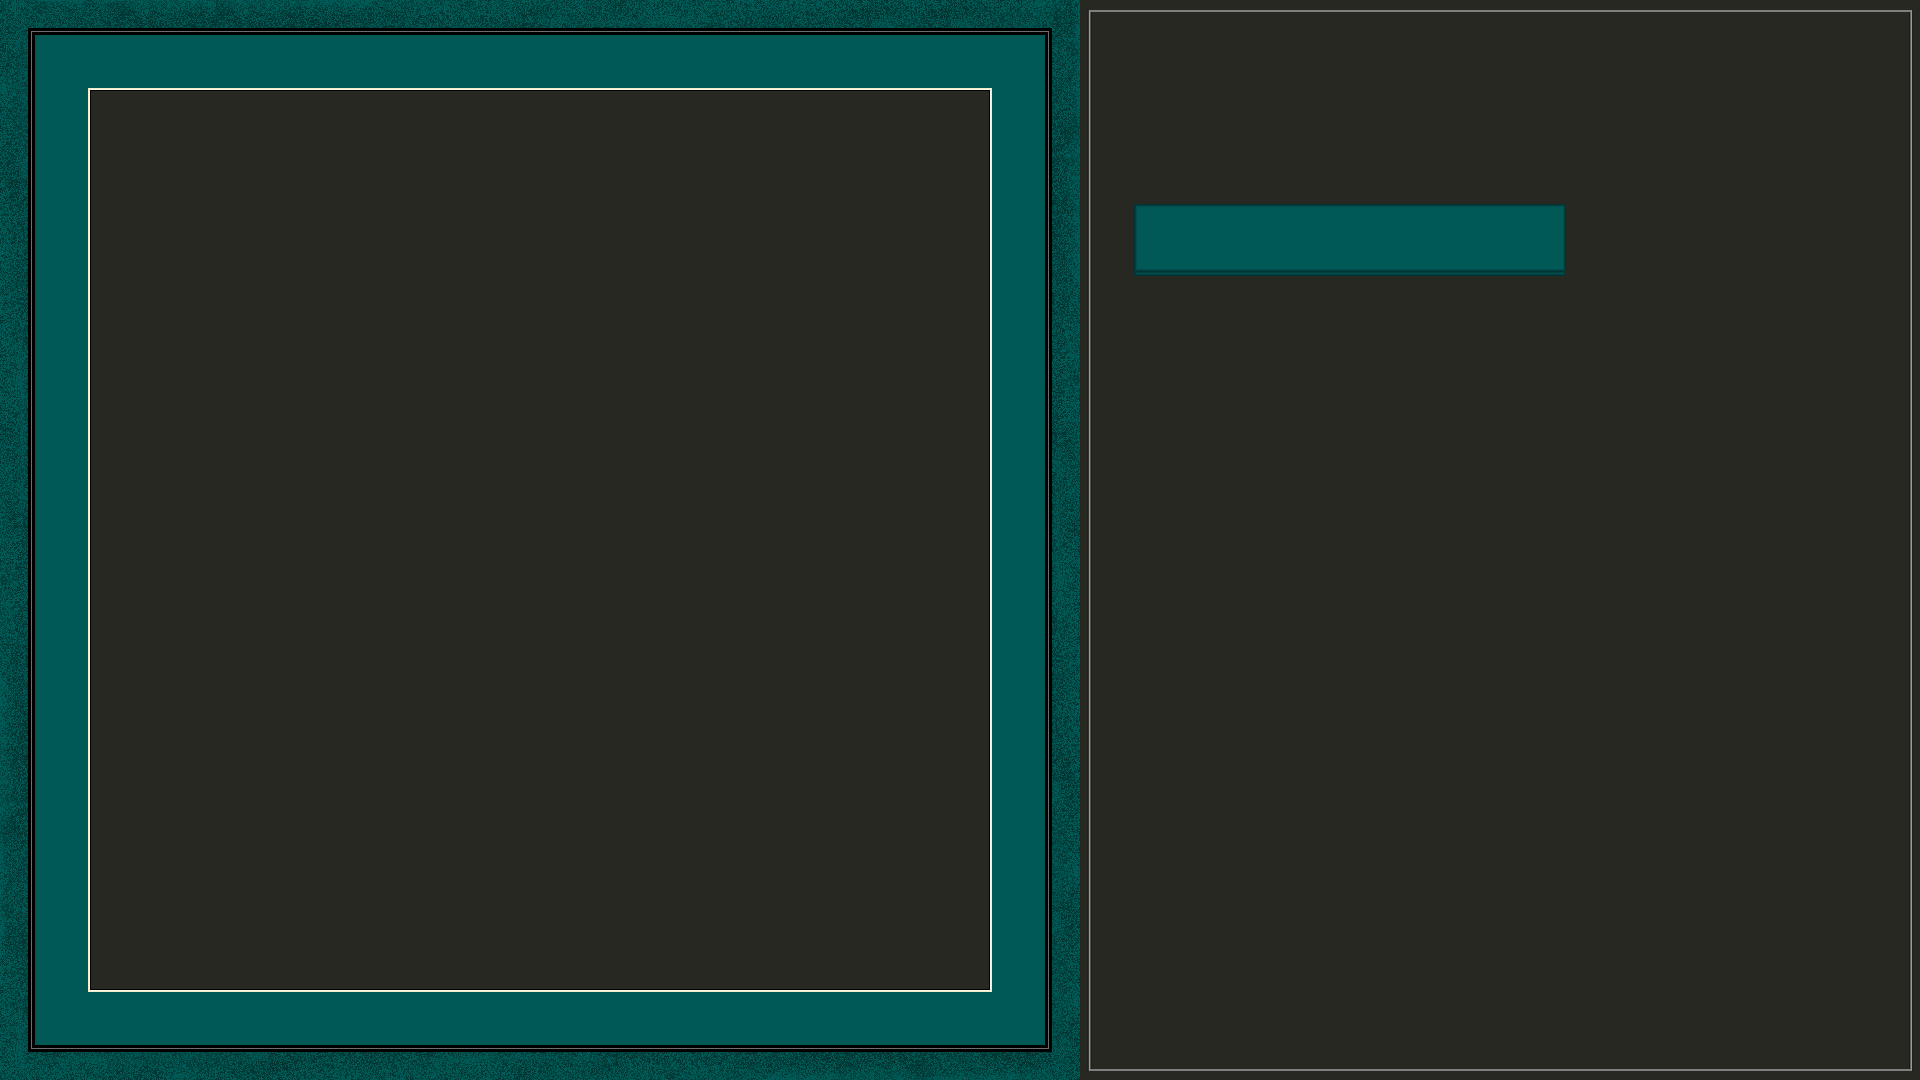
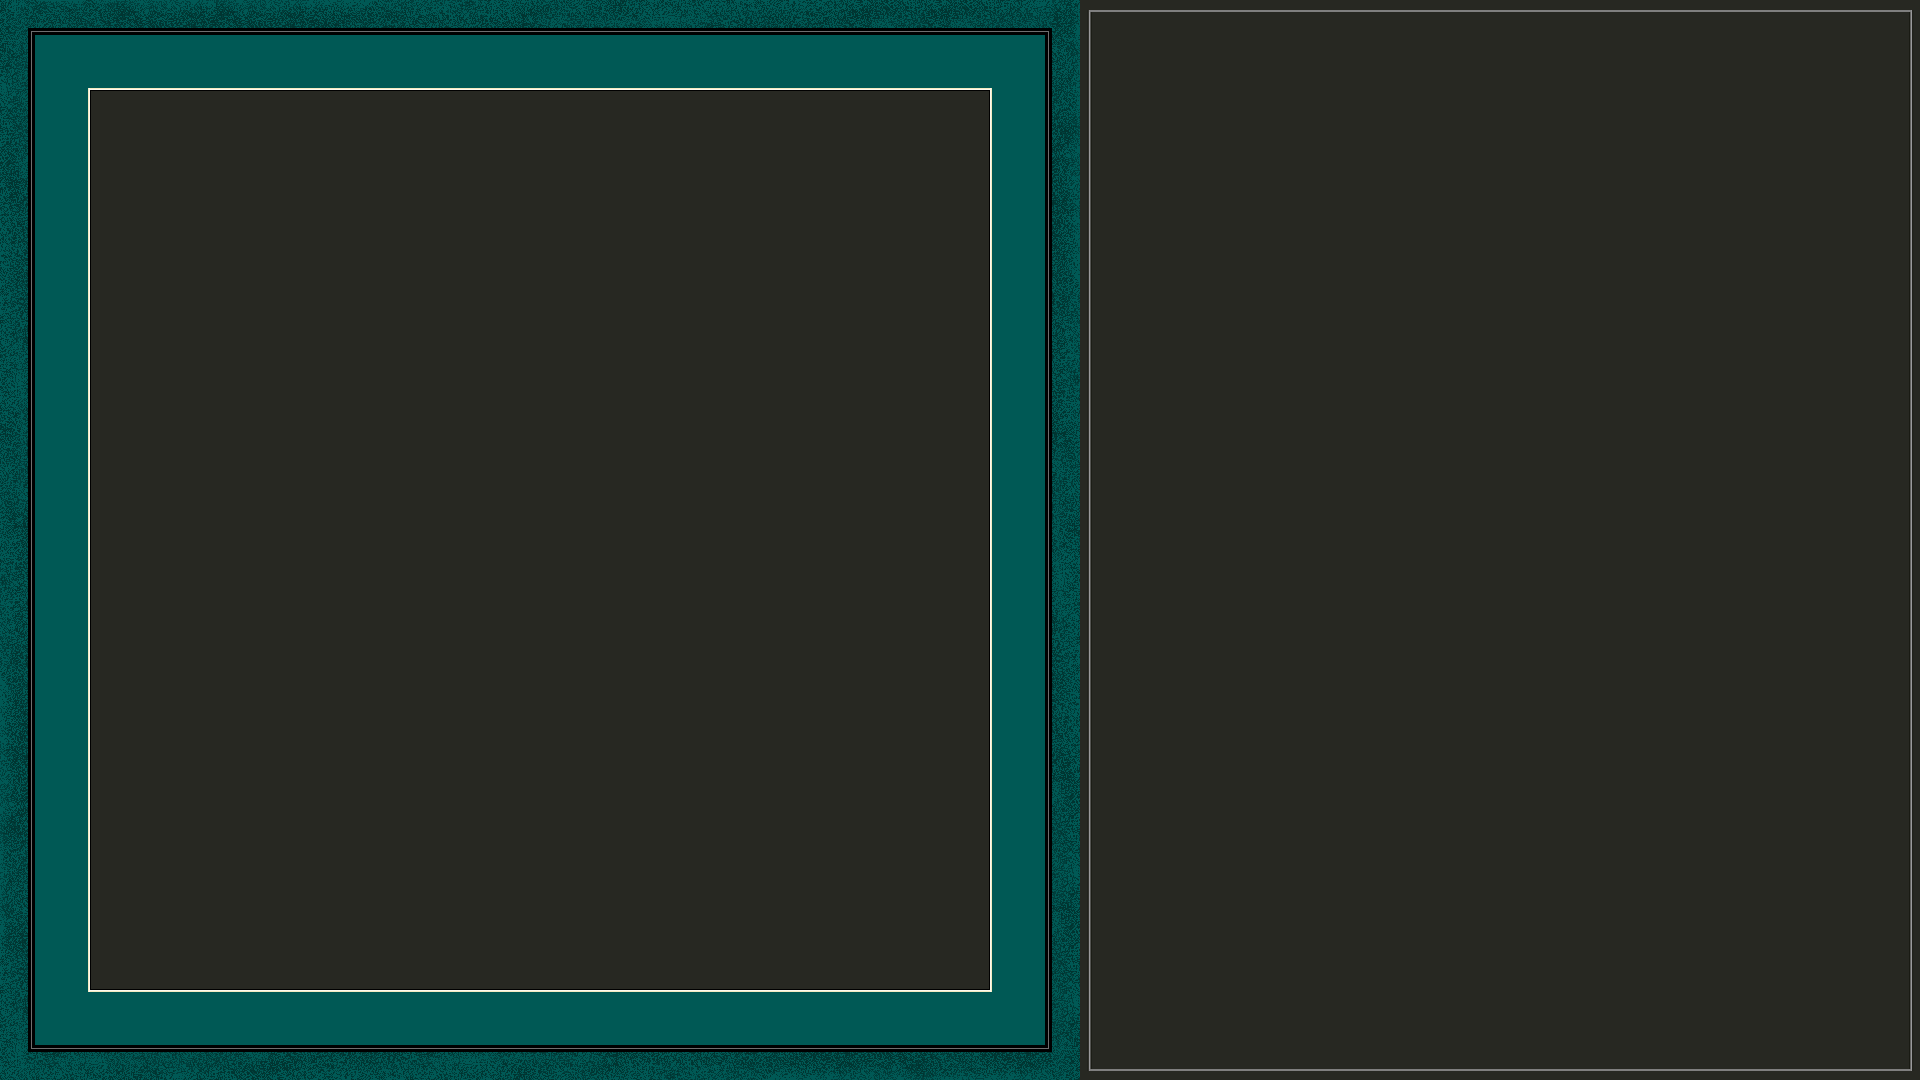
Use a Sprite for Hand_holder
+ use a Sprite to display "hand_holder" (need for "PLAY_A_LETTRE" back
to hand

Changed region(s): [[0.5938, 0.1833, 0.8125, 0.275]]

diff --git a/sources/main.py b/sources/main.py
@@ -87,9 +87,47 @@ class Board(pygame.sprite.Sprite):
 		self.rect = pygame.Rect((0,0), (width, height))
 
 
+#----- Hand holder -----
+class Hand_holder(pygame.sprite.Sprite):
+	def __init__(self, pos_x_in_tiles, pos_y_in_tiles):
+		#call superclass constructor
+		pygame.sprite.Sprite.__init__(self, self.containers)
+
+		#width and heigth
+		self.width_in_tiles = 7.2
+		self.height_in_tiles = 1.2
+
+		self.width = round (TILE_SIZE * self.width_in_tiles)
+		self.height = round (TILE_SIZE * self.height_in_tiles)
+
+		#position
+		self.pos_x_in_tiles = pos_x_in_tiles
+		self.pos_y_in_tiles = pos_y_in_tiles
+
+		self.pos_x = TILE_SIZE * self.pos_x_in_tiles
+		self.pos_y = TILE_SIZE * self.pos_y_in_tiles
+
+		self.image = loadImage(path.join(path_background, 'hand_holder.png'))
+		self.image = pygame.transform.smoothscale(self.image, (self.width, self.height))
+		self.rect = pygame.Rect((self.pos_x,self.pos_y), (self.width, self.height))
+
+	def resize(self):
+		#calculate new width and height 
+		self.width = round (TILE_SIZE * self.width_in_tiles)
+		self.height = round(TILE_SIZE * self.height_in_tiles)
+
+		self.pos_x = TILE_SIZE * self.pos_x_in_tiles
+		self.pos_y = TILE_SIZE * self.pos_y_in_tiles
+
+		#update
+		self.image = loadImage(path.join(path_background, 'hand_holder.png'))
+		self.image = pygame.transform.smoothscale(self.image, (self.width, self.height))
+		self.rect = pygame.Rect((self.pos_x,self.pos_y), (self.width, self.height))
+
+
 #----- Tiles -----
 class Tile(pygame.sprite.Sprite):
-	def __init__(self, tile_name, pos_x, pos_y):
+	def __init__(self, tile_name, pos_x_in_tiles, pos_y_in_tiles):
 		#call superclass constructor
 		pygame.sprite.Sprite.__init__(self, self.containers)
 
@@ -104,8 +142,8 @@ class Tile(pygame.sprite.Sprite):
 		self.height = TILE_SIZE * self.height_in_tiles
 
 		#position
-		self.pos_x_in_tiles = pos_x
-		self.pos_y_in_tiles = pos_y	
+		self.pos_x_in_tiles = pos_x_in_tiles
+		self.pos_y_in_tiles = pos_y_in_tiles	
 
 		self.pos_x = TILE_SIZE * self.pos_x_in_tiles
 		self.pos_y = TILE_SIZE * self.pos_y_in_tiles
@@ -133,7 +171,7 @@ class Tile(pygame.sprite.Sprite):
 
 #----- Buttons -----
 class Button(pygame.sprite.Sprite):
-	def __init__(self, button_name, pos_x, pos_y):
+	def __init__(self, button_name, pos_x_in_tiles, pos_y_in_tiles):
 		#call superclass constructor
 		pygame.sprite.Sprite.__init__(self, self.containers)
 
@@ -150,8 +188,8 @@ class Button(pygame.sprite.Sprite):
 		self.is_pushed = False
 
 		#position
-		self.pos_x_in_tiles = pos_x
-		self.pos_y_in_tiles = pos_y
+		self.pos_x_in_tiles = pos_x_in_tiles
+		self.pos_y_in_tiles = pos_y_in_tiles
 
 		self.pos_x = TILE_SIZE * self.pos_x_in_tiles
 		self.pos_y = TILE_SIZE * self.pos_y_in_tiles
@@ -433,6 +471,7 @@ layer_all = GroupOfSprites()
 
 #set default groups
 Board.containers = layer_all, layer_background
+Hand_holder.containers = layer_all, layer_background
 Button.containers = layer_all, layer_buttons
 Letter.containers = layer_all
 Tile.containers = layer_all, layer_tiles
@@ -442,6 +481,7 @@ Tile.containers = layer_all, layer_tiles
 
 #create background
 board = Board()
+hand_holder = Hand_holder(18.9, 3.4)
 
 #create tiles
 DELTA = 1.5
@@ -553,6 +593,7 @@ while game_is_running:
 
 			#To IMPROVE ?
 			BLACK_BACKGROUND = window.fill((0,0,0))
+			pygame.display.update()
 			layer_all.resize()
 
 			layer_background.draw(window)
